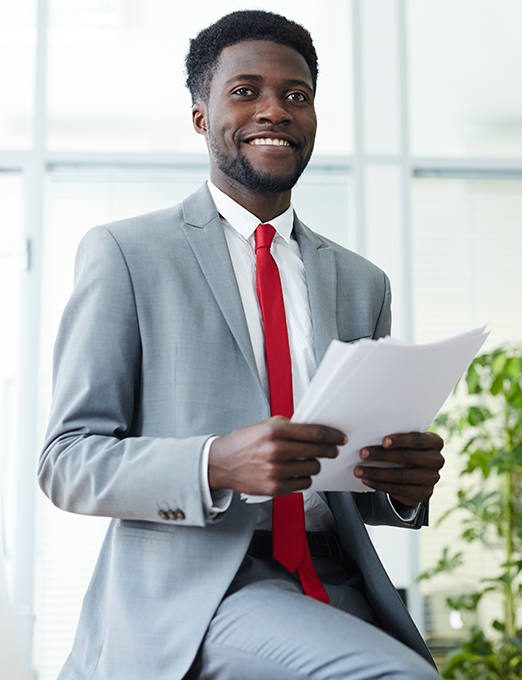
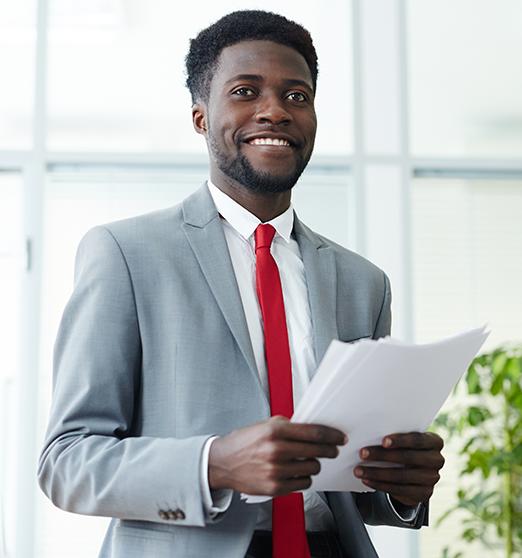
sixieme commit - modif du projet

diff --git a/assets/css/getizy.css b/assets/css/getizy.css
@@ -6584,7 +6584,7 @@ body.megamenu-popup-active .mobile-nav__content {
 
 .service-three__img {
   width: 522px;
-  height: 680px;
+  height: 559px;
 }
 
 .service-three__img img {
